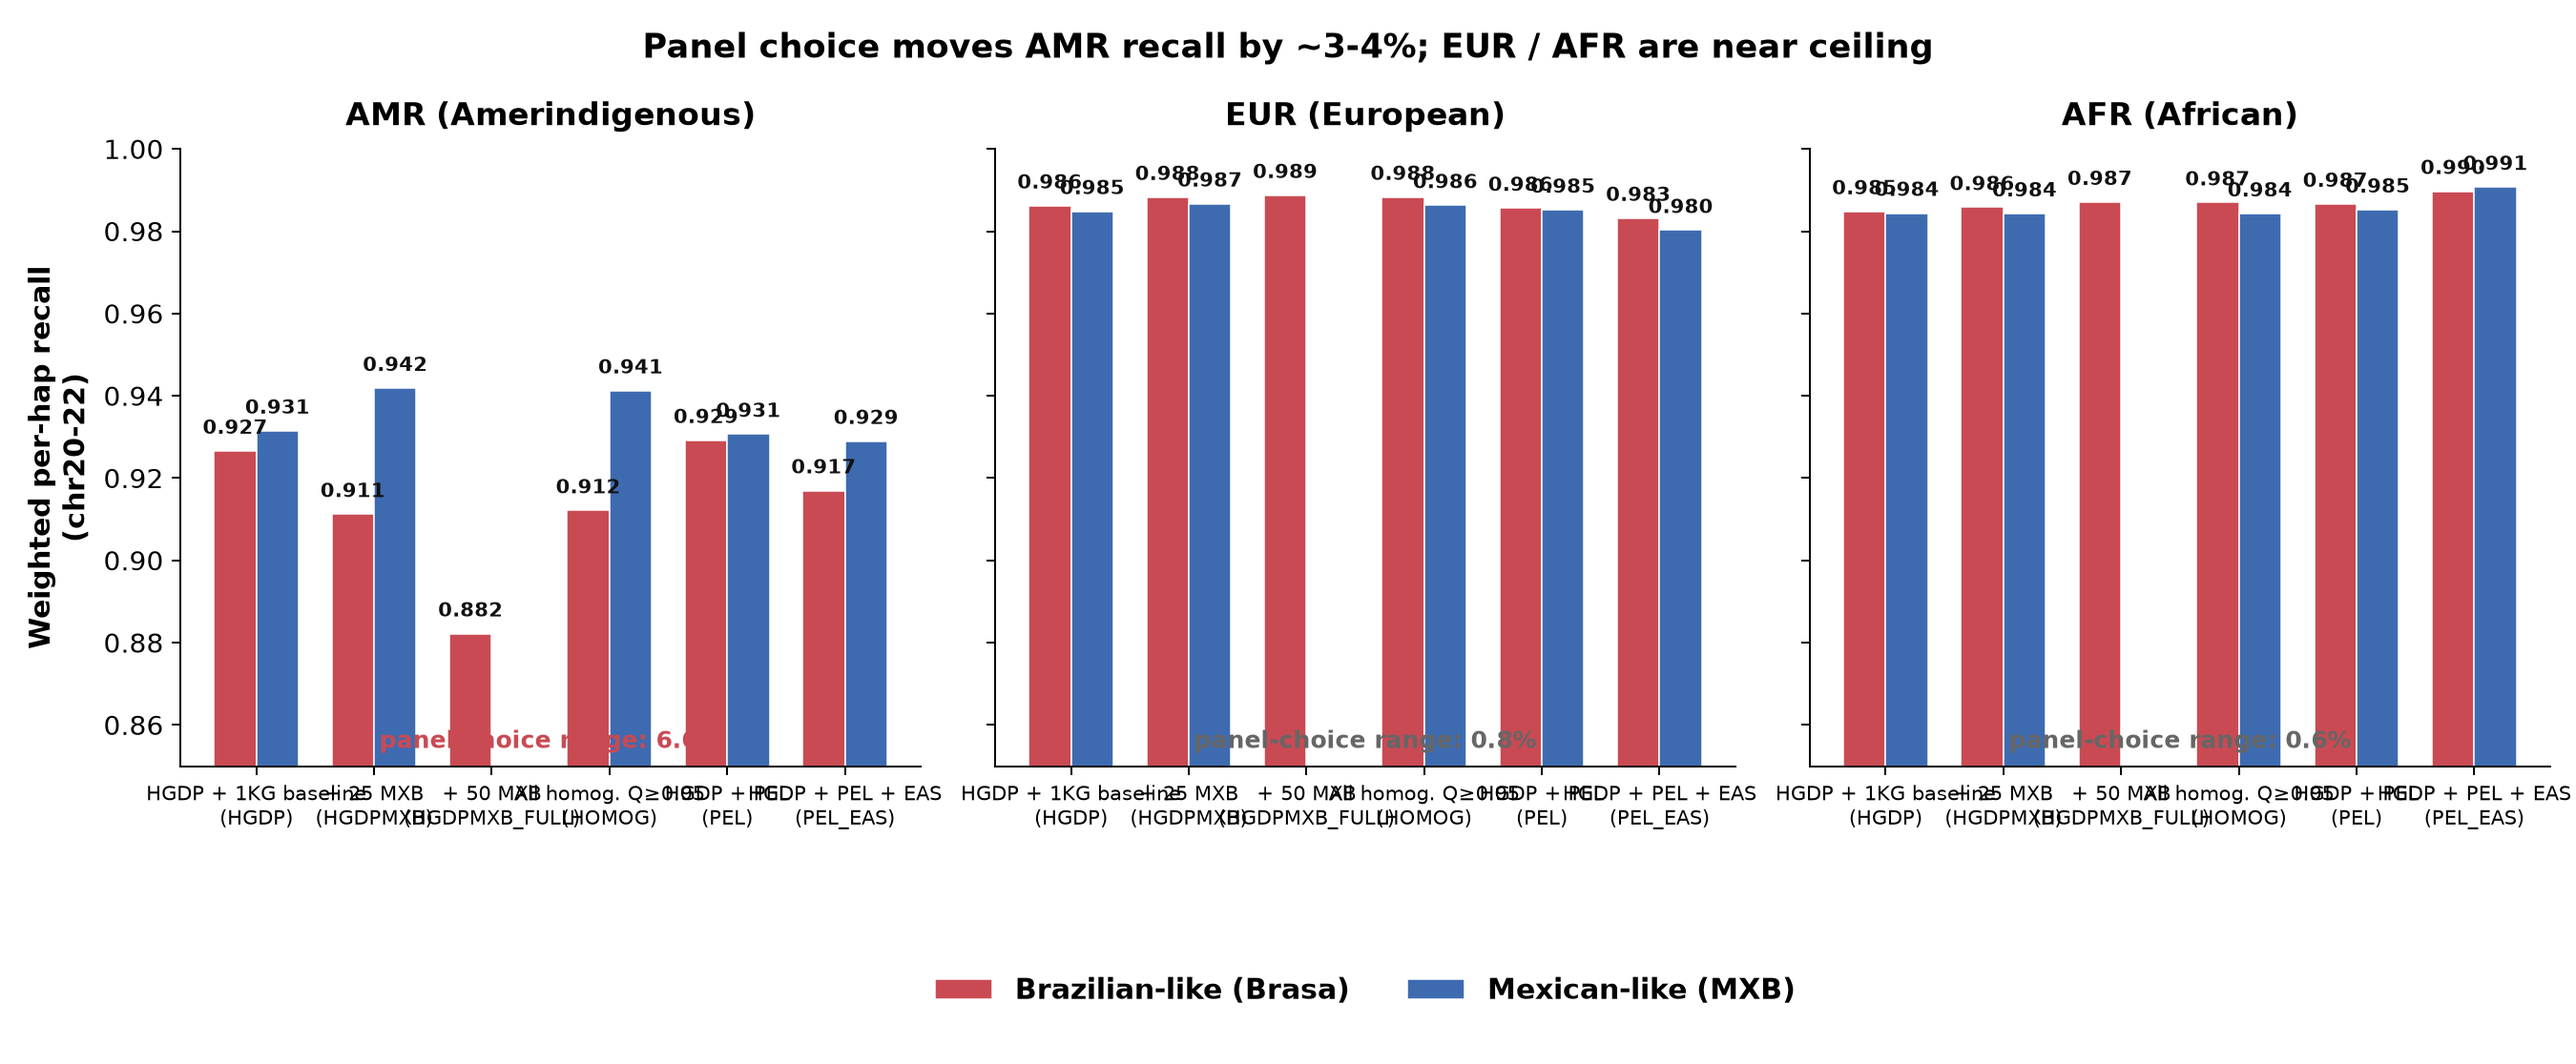
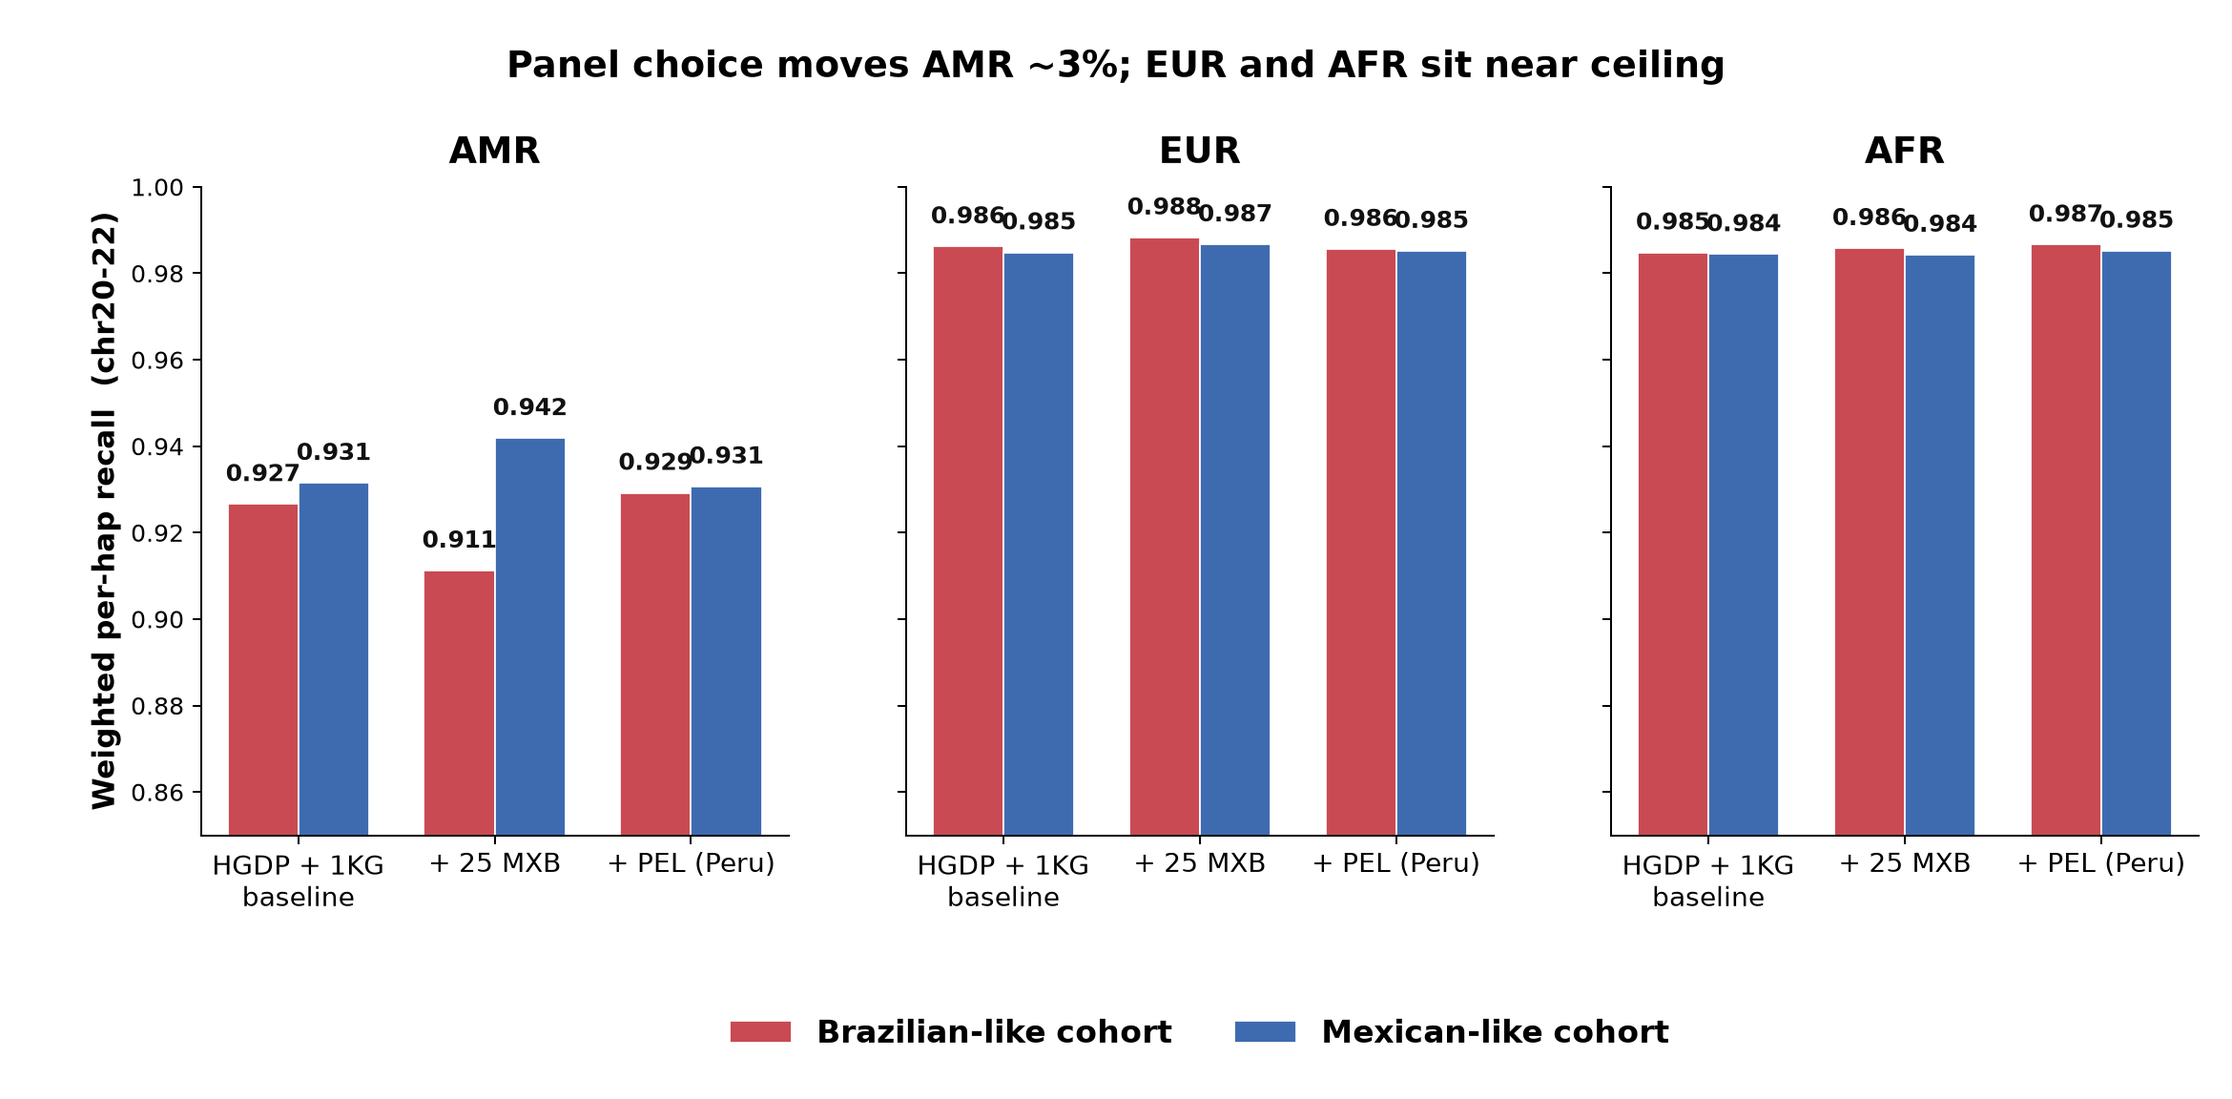
slides/figures: simplify AMR/EUR/AFR figure (3 panels, no annotation)
Drop the extra panels + range annotation; keep only HGDP baseline,
+25 MXB, and PEL. Wider subplot spacing (wspace 0.20), bold value
labels at 10pt so nothing overlaps.

Claude-Session: https://claude.ai/code/session_01Fbouf9yKVWMvU7uqqi6hid

diff --git a/slides/make_figures.py b/slides/make_figures.py
@@ -264,29 +264,25 @@ def fig_pipeline():
     plt.close(fig)
     return out
 
-# ---------------------------------------------------------------- FIG 5: 3-ancestry range
+# ---------------------------------------------------------------- FIG 5: 3-ancestry range (simplified)
 def fig_wgs_all_ancestry():
     """
     Small multiples: AMR / EUR / AFR side-by-side, same y-scale.
-    Shows that AMR is where panel choice matters — EUR/AFR are already
-    near ceiling and barely move.
+    Only 3 panels — HGDP baseline, +25 MXB, and PEL — to keep it uncluttered.
     """
     panels = [
-        ("HGDP + 1KG baseline",              "NAT_HGDP"),
-        ("+ 25 MXB",                         "NAT_HGDPMXB"),
-        ("+ 50 MXB",                         "NAT_HGDPMXB_FULL"),
-        ("All homog. Q≥0.95",                "NAT_HOMOG"),
-        ("HGDP + PEL",                       "NAT_PEL"),
-        ("HGDP + PEL + EAS",                 "NAT_PEL_EAS"),
+        ("HGDP + 1KG\nbaseline", "NAT_HGDP"),
+        ("+ 25 MXB",             "NAT_HGDPMXB"),
+        ("+ PEL (Peru)",         "NAT_PEL"),
     ]
-    tracks = [("NAT",    "Brazilian-like (Brasa)",   "#c94a53"),
-              ("NATMXB", "Mexican-like (MXB)",       "#3e6bb0")]
-    ancestries = [("NAT", "AMR (Amerindigenous)"),
-                  ("EUR", "EUR (European)"),
-                  ("AFR", "AFR (African)")]
+    tracks = [("NAT",    "Brazilian-like cohort", "#c94a53"),
+              ("NATMXB", "Mexican-like cohort",   "#3e6bb0")]
+    ancestries = [("NAT", "AMR"),
+                  ("EUR", "EUR"),
+                  ("AFR", "AFR")]
 
-    fig, axes = plt.subplots(1, 3, figsize=(15, 6.2), dpi=180, sharey=True)
-    fig.subplots_adjust(left=0.07, right=0.99, top=0.86, bottom=0.28, wspace=0.10)
+    fig, axes = plt.subplots(1, 3, figsize=(13, 6.4), dpi=180, sharey=True)
+    fig.subplots_adjust(left=0.09, right=0.985, top=0.83, bottom=0.24, wspace=0.20)
 
     x = np.arange(len(panels))
     w = 0.36
@@ -296,41 +292,29 @@ def fig_wgs_all_ancestry():
             vals = [wgs.get((track, key, anc), np.nan) for _, key in panels]
             bars = ax.bar(x + (i - 0.5) * w, vals, w,
                           label=tlabel, color=color,
-                          edgecolor="white", linewidth=0.6)
+                          edgecolor="white", linewidth=0.7)
             for xi, v in zip(bars, vals):
                 if not np.isnan(v):
-                    ax.text(xi.get_x() + xi.get_width()/2, v + 0.003,
+                    ax.text(xi.get_x() + xi.get_width()/2, v + 0.004,
                             f"{v:.3f}", ha="center", va="bottom",
-                            fontsize=8.5, color="#111", fontweight="semibold")
+                            fontsize=10, color="#111", fontweight="bold")
 
-        # range annotation
-        all_vals = [wgs.get((tr, key, anc), np.nan)
-                    for tr, _, _ in tracks for _, key in panels]
-        rng = max(all_vals) - min(all_vals)
-        ax.text(0.5, 0.02, f"panel-choice range: {rng*100:.1f}%",
-                transform=ax.transAxes, ha="center", va="bottom",
-                fontsize=10, fontweight="bold",
-                color=("#c94a53" if rng > 0.03 else "#666"))
-
-        ax.set_title(anc_label, fontweight="bold", fontsize=13, pad=10)
+        ax.set_title(anc_label, fontweight="bold", fontsize=15, pad=10)
         ax.set_xticks(x)
-        ax.set_xticklabels([f"{lab}\n({key.replace('NAT_','')})"
-                            for lab, key in panels],
-                           fontsize=8.5)
+        ax.set_xticklabels([lab for lab, _ in panels], fontsize=11)
         for lbl in ax.get_xticklabels():
             lbl.set_multialignment("center")
+        ax.tick_params(axis="y", labelsize=10)
 
     axes[0].set_ylim(0.85, 1.00)
-    axes[0].set_ylabel("Weighted per-hap recall\n(chr20-22)",
-                       fontsize=12, fontweight="bold")
-    for ax in axes:
-        ax.set_xlabel("")
+    axes[0].set_ylabel("Weighted per-hap recall  (chr20-22)",
+                       fontsize=12.5, fontweight="bold")
 
-    fig.suptitle("Panel choice moves AMR recall by ~3-4%; EUR / AFR are near ceiling",
-                 fontweight="bold", fontsize=14, y=0.97)
+    fig.suptitle("Panel choice moves AMR ~3%; EUR and AFR sit near ceiling",
+                 fontweight="bold", fontsize=15, y=0.955)
 
-    leg = axes[1].legend(loc="upper center", bbox_to_anchor=(0.5, -0.30),
-                         ncol=2, fontsize=12, frameon=False)
+    leg = axes[1].legend(loc="upper center", bbox_to_anchor=(0.5, -0.24),
+                         ncol=2, fontsize=13, frameon=False)
     for t in leg.get_texts():
         t.set_fontweight("bold")
 
